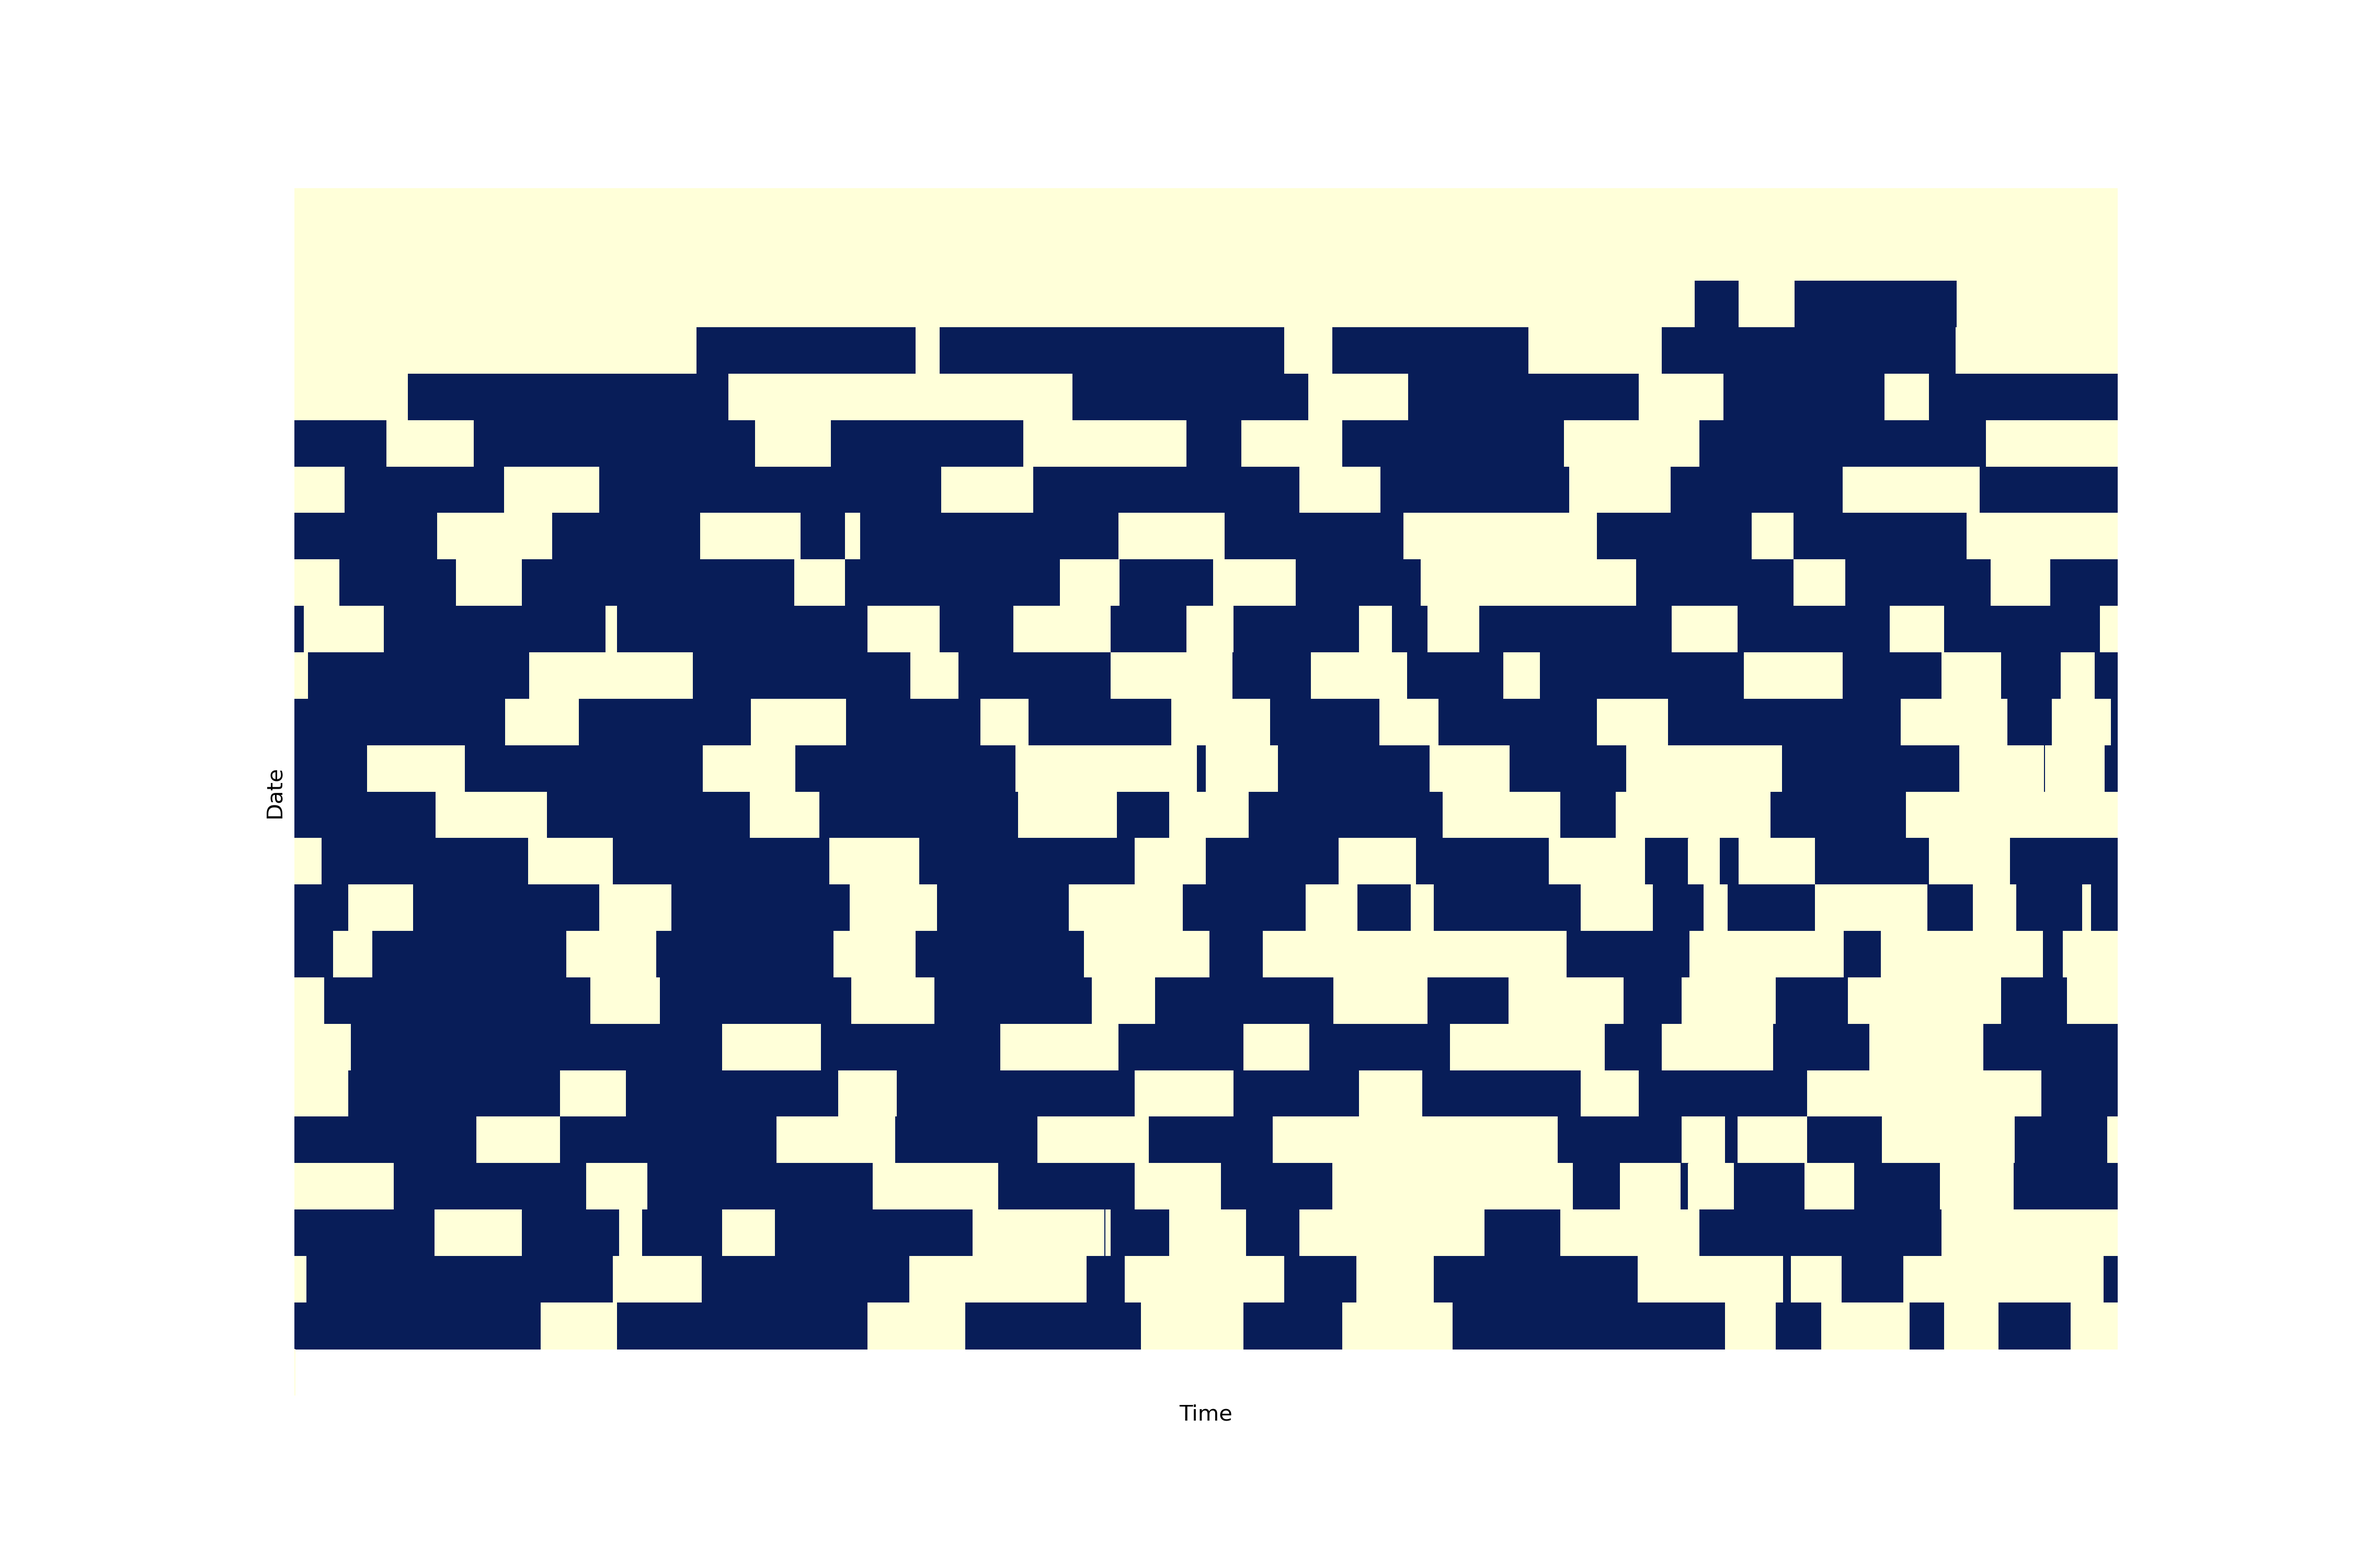
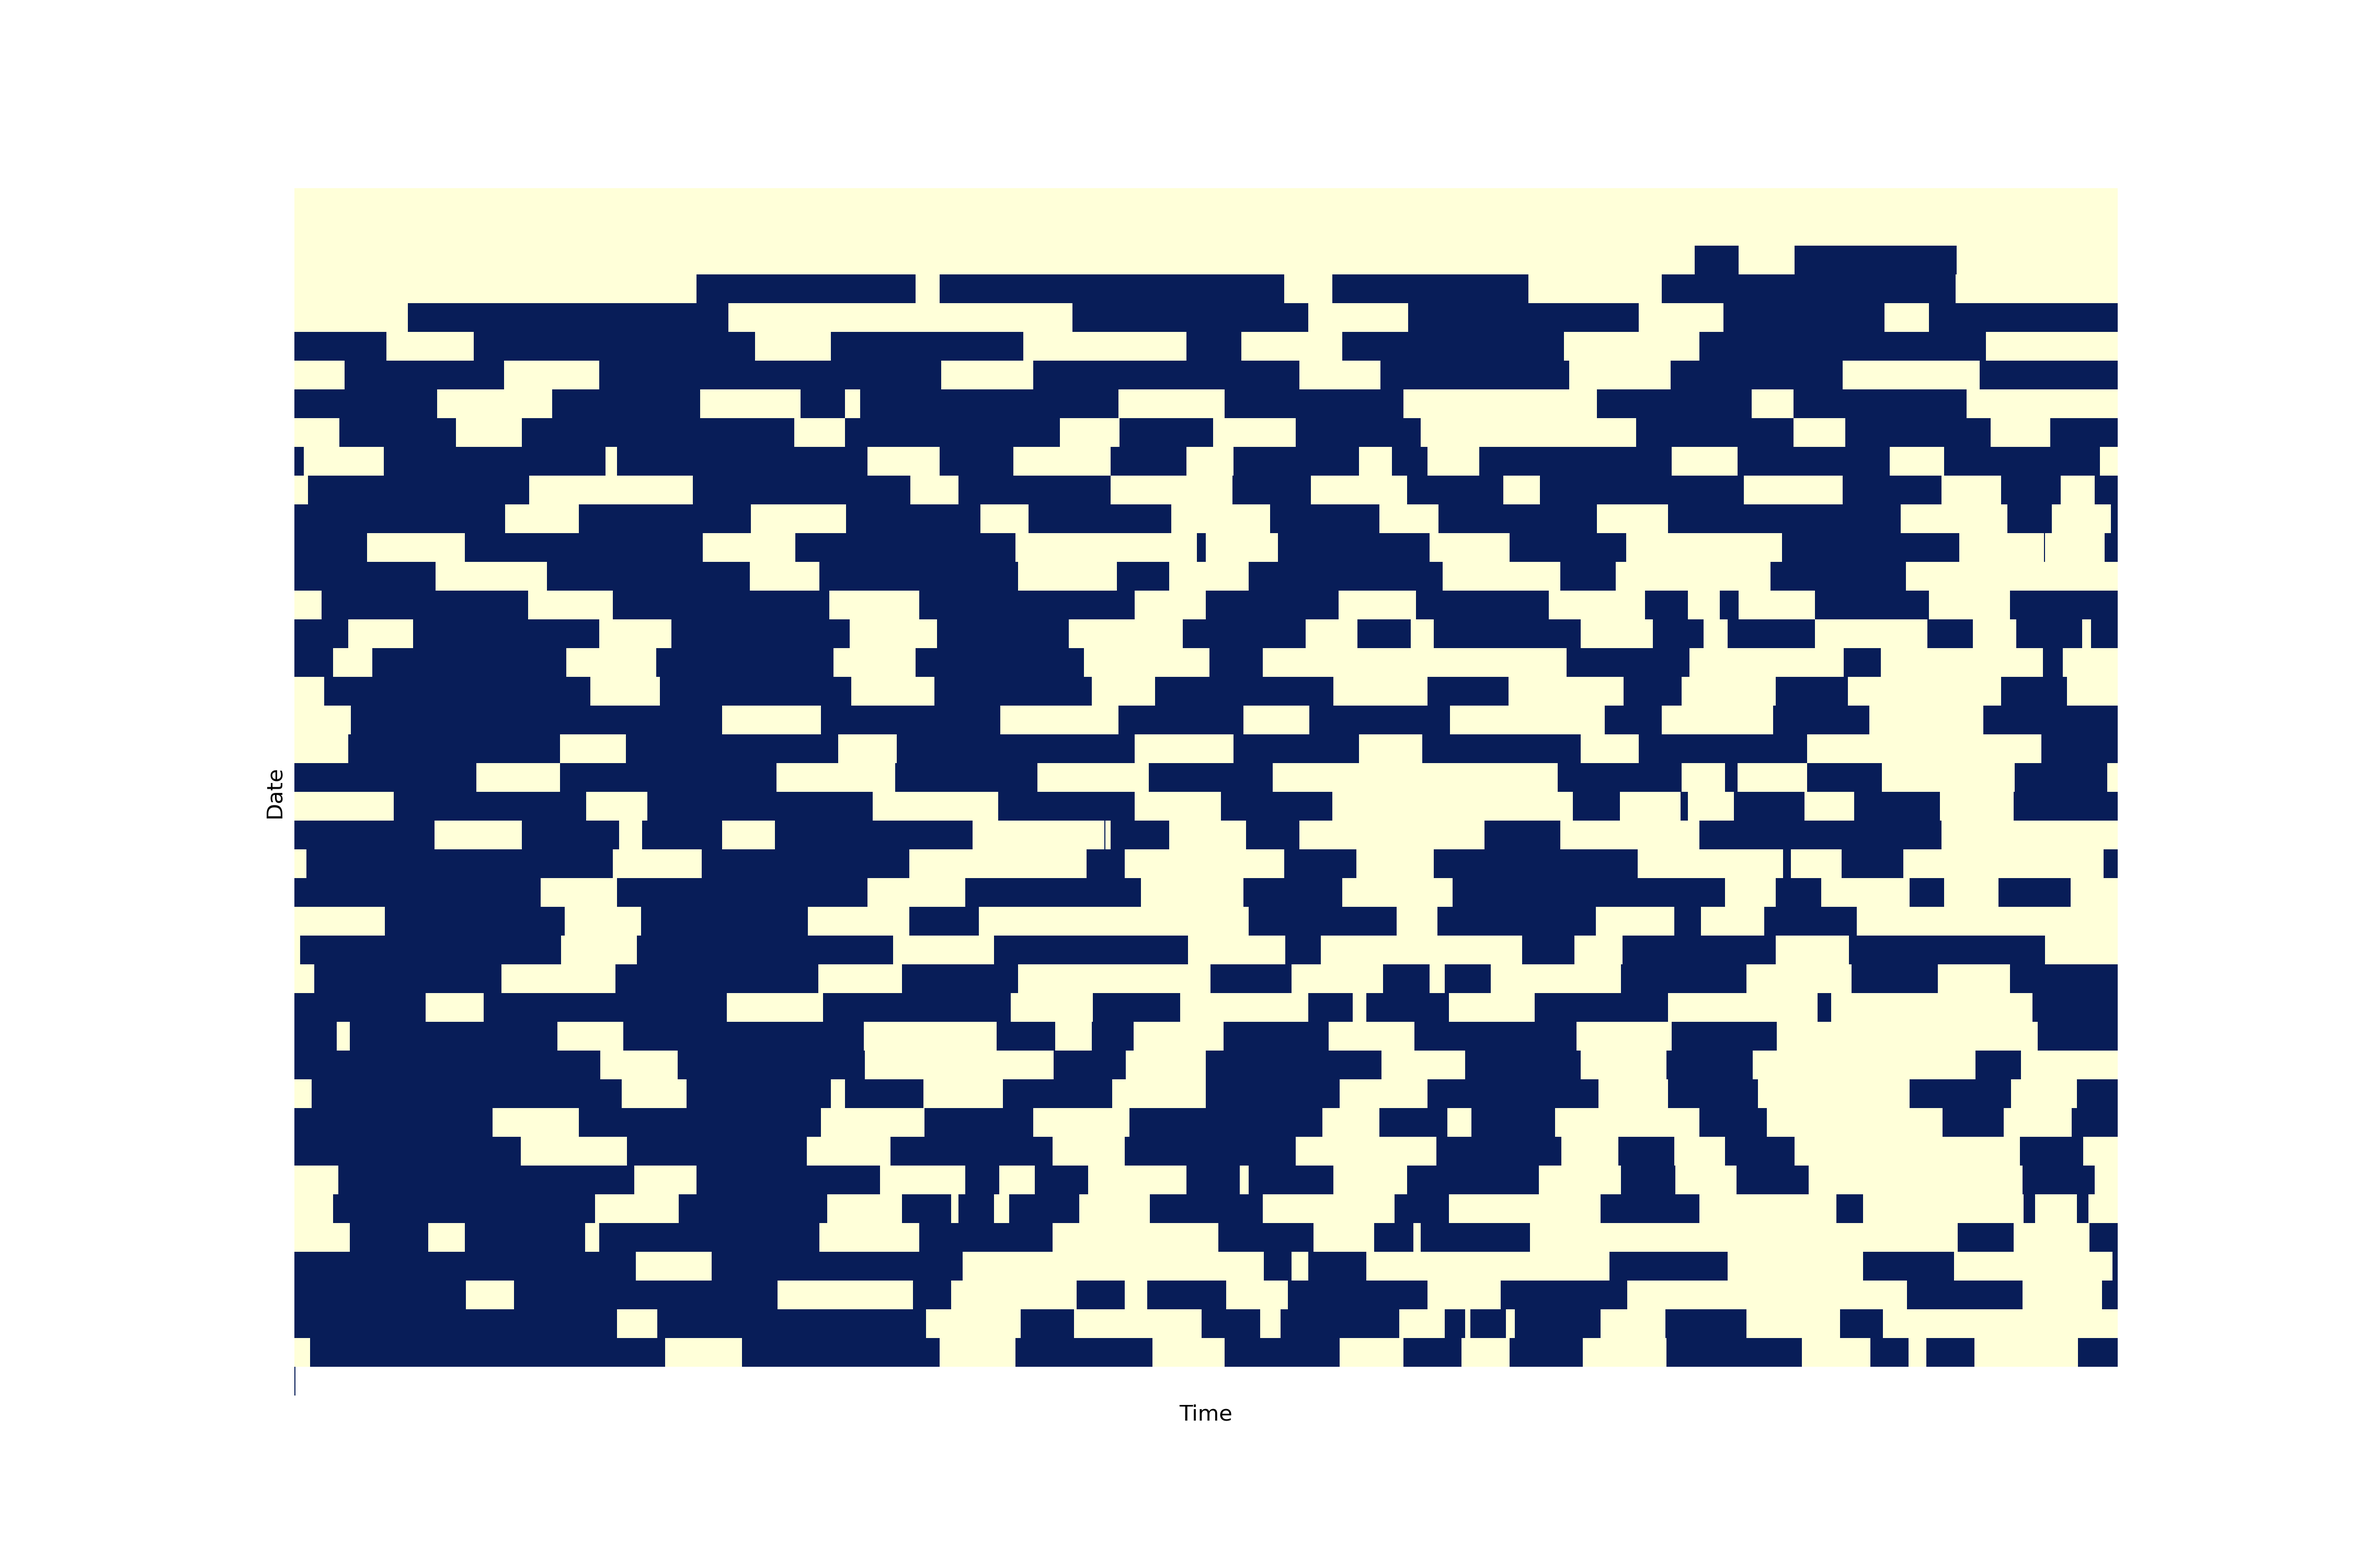
data refresh

Changed region(s): [[0.1244, 0.155, 0.9022, 0.899]]

diff --git a/hlines.py b/hlines.py
@@ -3,16 +3,6 @@ import seaborn as sns
 import datetime
 import matplotlib.pyplot as plt
 
-# df = pd.DataFrame(
-#     {
-#         "day": ['1', '1', '1', '2', '2', '2', '2', '3', '3'],
-#         "sleep_start": [1.2, 6.6, 15.9,  2.1, 7.5, 14.8, 20.9, 3.4, 17.9],
-#         "sleep_end": [3.1, 8.9, 20.7,  6.1, 9.4, 19.0, 23.8, 5.5, 19.3],
-#     }
-# )
-
-# print(df.head(20))
-
 df = pd.read_csv("Isla_sleep.csv")
 df = df[['Time', 'Duration(minutes)']]
 df.columns = ['start_time', 'dur_mins']
